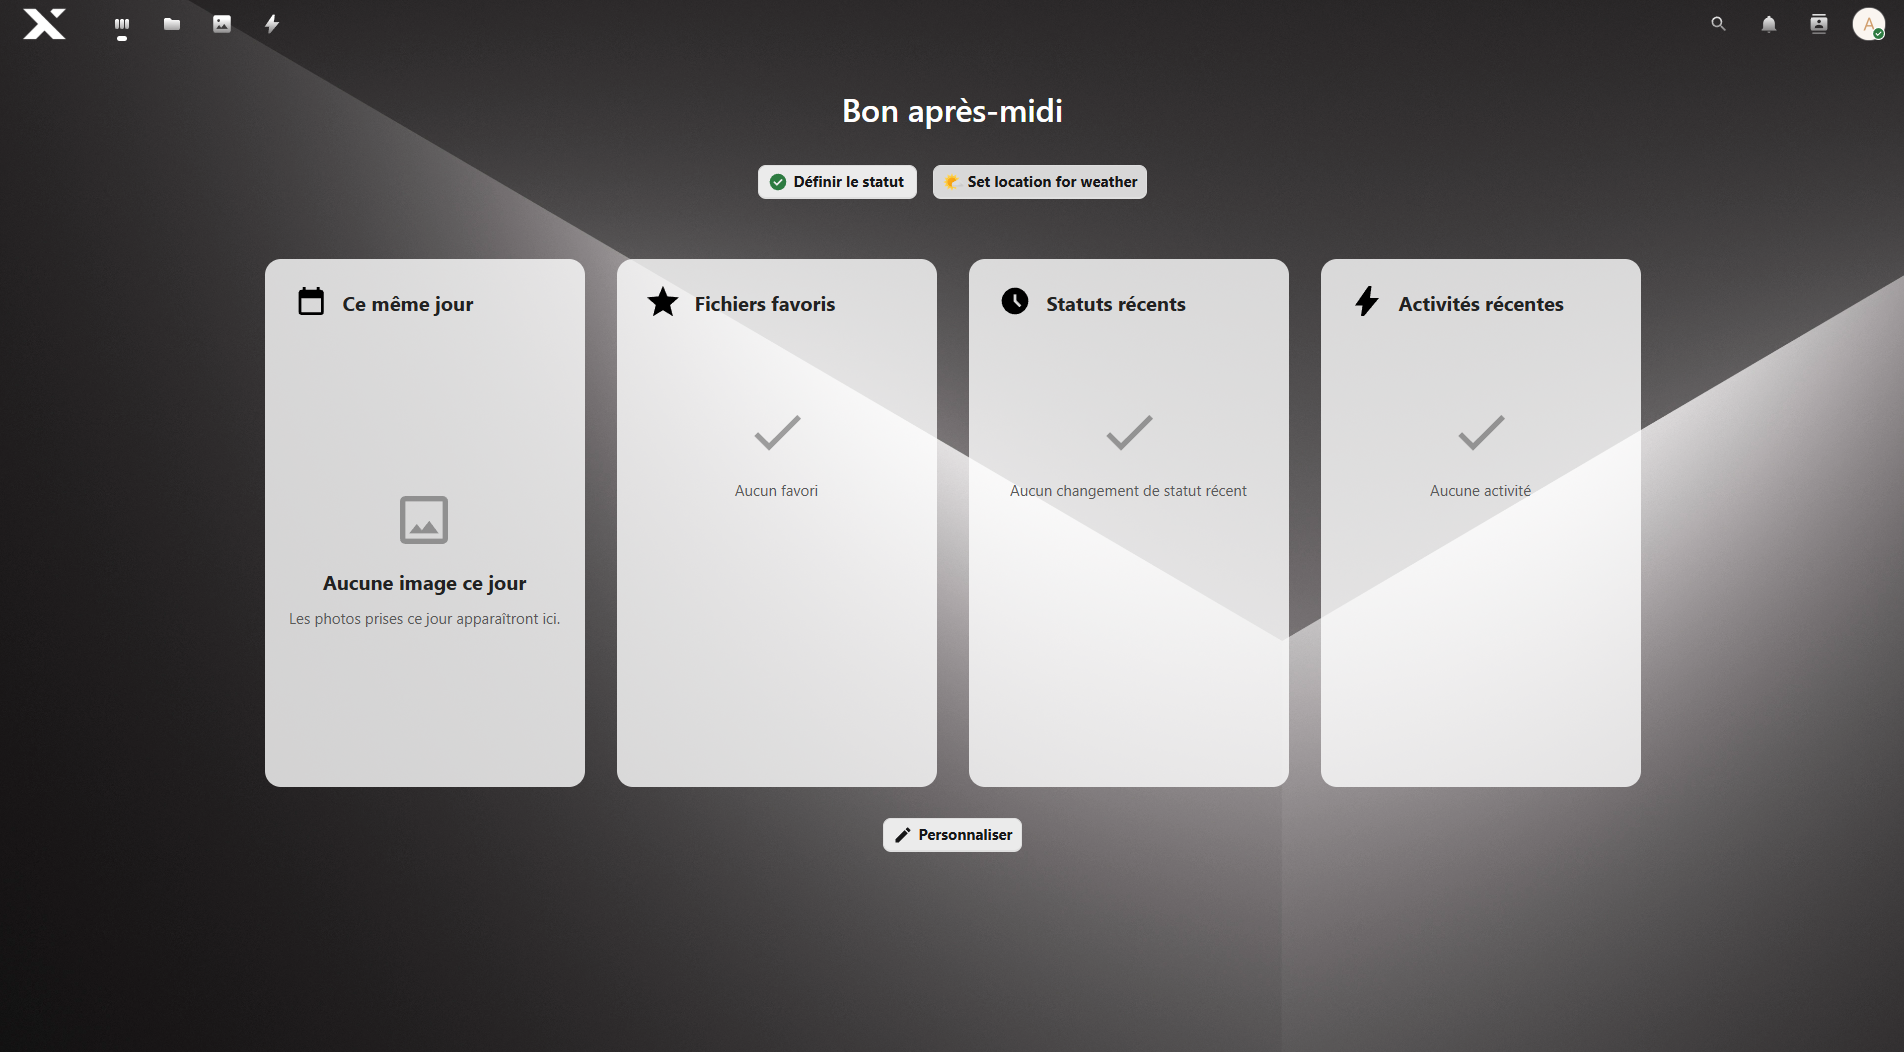
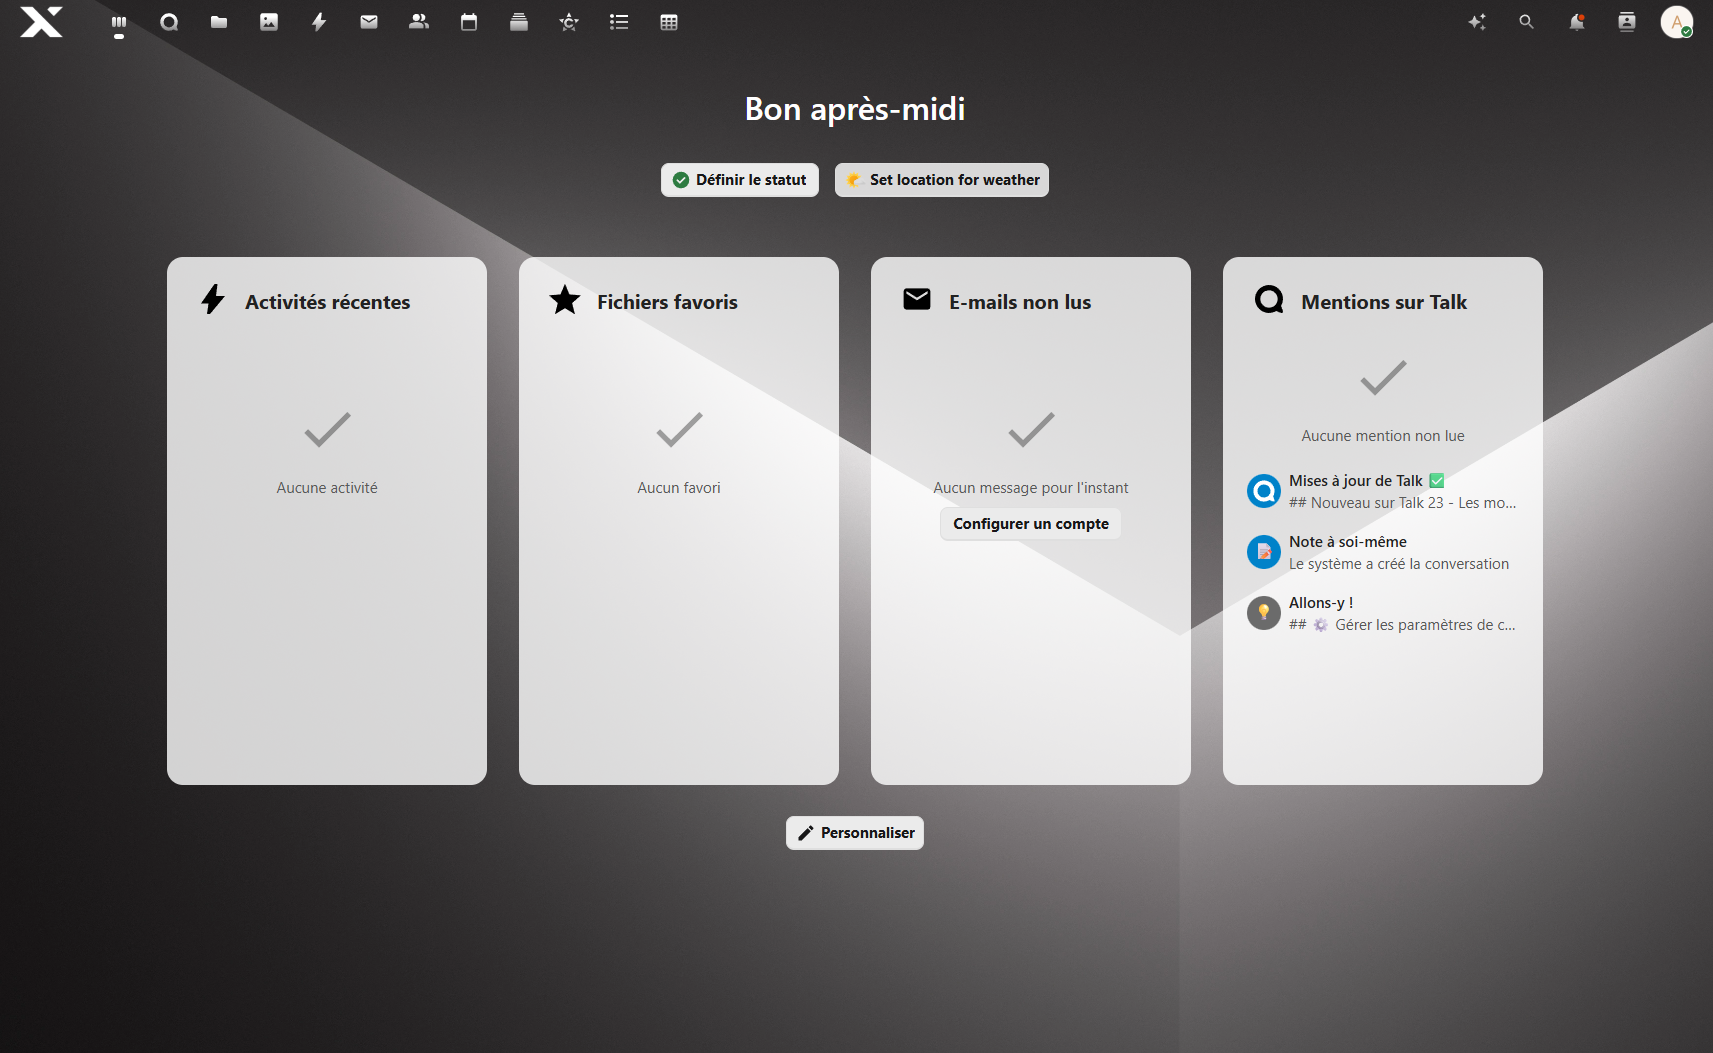
docs(screenshots): replace login/dashboard previews with real screenshots; add Files, Collabora, Talk, Whiteboard, MinIO Console, HAProxy Stats

diff --git a/README.md b/README.md
@@ -36,6 +36,18 @@
 <td align="center"><img src="img/login-preview.png" width="480" alt="NXT Maxscale Login Page"/><br/><sub>Login page</sub></td>
 <td align="center"><img src="img/dashboard-preview.png" width="480" alt="NXT Maxscale Dashboard"/><br/><sub>Dashboard</sub></td>
 </tr>
+<tr>
+<td align="center"><img src="img/files.png" width="480" alt="Nextcloud Files"/><br/><sub>Files</sub></td>
+<td align="center"><img src="img/collabora.png" width="480" alt="Collabora Online"/><br/><sub>Collabora Online</sub></td>
+</tr>
+<tr>
+<td align="center"><img src="img/talk.png" width="480" alt="Nextcloud Talk"/><br/><sub>Talk</sub></td>
+<td align="center"><img src="img/whiteboard.png" width="480" alt="Whiteboard"/><br/><sub>Whiteboard</sub></td>
+</tr>
+<tr>
+<td align="center"><img src="img/minio-console.png" width="480" alt="MinIO Console"/><br/><sub>MinIO Console</sub></td>
+<td align="center"><img src="img/haproxy-stats.png" width="480" alt="HAProxy Stats"/><br/><sub>HAProxy Stats</sub></td>
+</tr>
 </table>
 </div>
 